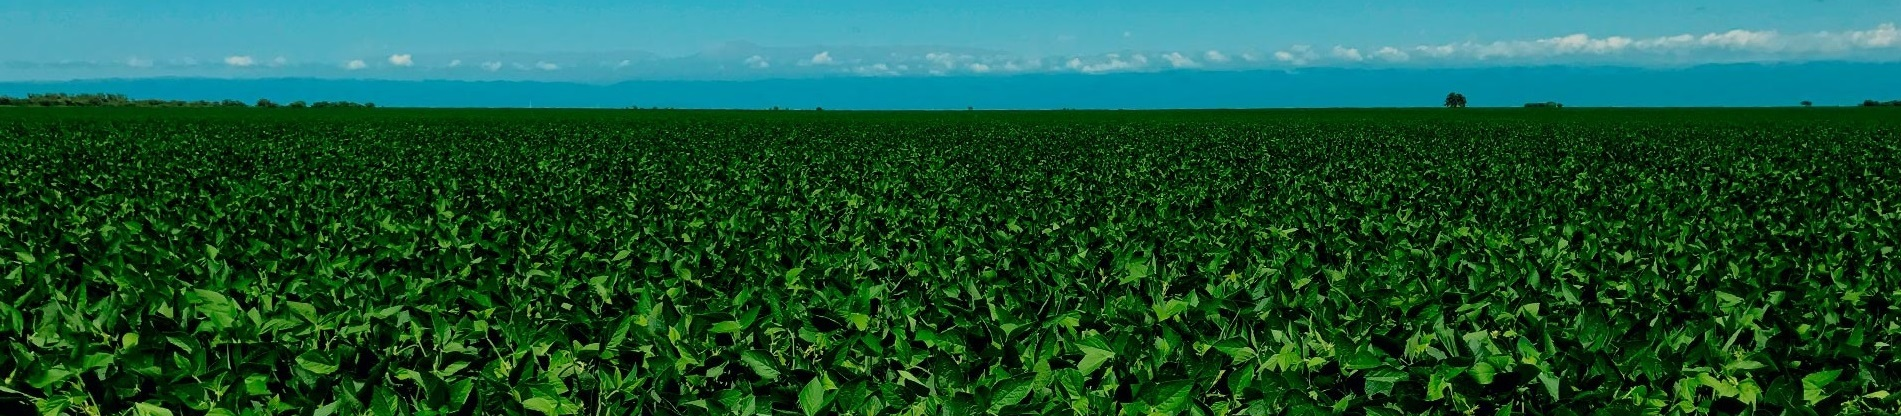
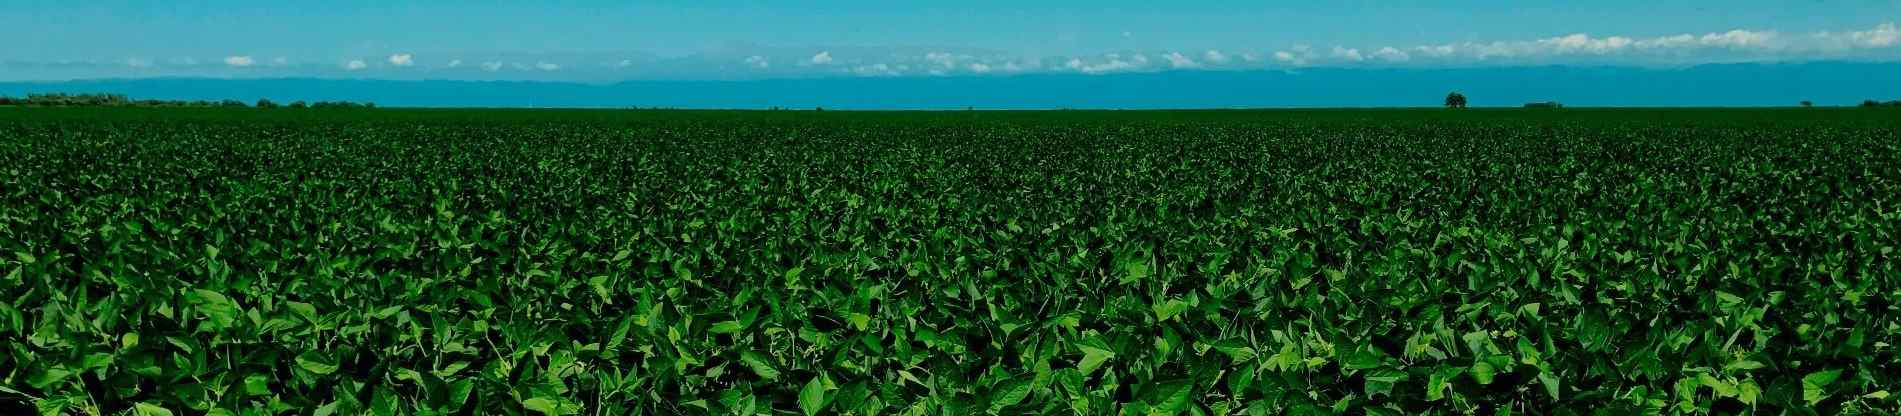
cambie todas la img a jpg

diff --git a/pages/establecimientos.html b/pages/establecimientos.html
@@ -63,17 +63,17 @@
                             </div>                                                        
                         </div>
                         <button class="carousel-control-prev" type="button" data-bs-target="#carouselExampleControls" data-bs-slide="prev">
-                        <span class="carousel-control-prev-icon" aria-hidden="true"></span>
-                        <span class="visually-hidden">Previous</span>
-                        </button>
-                        <button class="carousel-control-next" type="button" data-bs-target="#carouselExampleControls" data-bs-slide="next">
-                        <span class="carousel-control-next-icon" aria-hidden="true"></span>
-                        <span class="visually-hidden">Next</span>
-                        </button>
+                            <span class="carousel-control-prev-icon" aria-hidden="true"></span>
+                            <span class="visually-hidden">Previous</span>
+                            </button>
+                            <button class="carousel-control-next" type="button" data-bs-target="#carouselExampleControls" data-bs-slide="next">
+                            <span class="carousel-control-next-icon" aria-hidden="true"></span>
+                            <span class="visually-hidden">Next</span>
+                            </button>
                     </div>
                 </div>
                 <hr>            
-                <section class="container-fluid text-center justify-content-center">
+                <section class="container-fluid text-center">
                     <div class="row">
                         <div class="col-sm-12 col-ms-6 col-lg-4 m-auto">
                             <h1>Finca y empaque Los Cochamolles</h1>
@@ -85,7 +85,7 @@
                             <div id="carouselExampleControls" class="carousel slide" data-bs-ride="carousel">
                                 <div class="carousel-inner">
                                     <div class="carousel-item active">
-                                    <img src="../img/ebs3207-1.webp" class="d-block w-100" alt="finca cachamolles">
+                                    <img src="../img/ebs3207-1.jpg" class="d-block w-100" alt="finca cachamolles">
                                 </div>
                                 <div class="carousel-item">
                                     <img src="../img/empaque-1024x768.jpg" class="d-block w-100" alt="finca ">
@@ -95,6 +95,7 @@
                                 </div>                                                        
                             </div>
                             <button class="carousel-control-prev" type="button" data-bs-target="#carouselExampleControls" data-bs-slide="prev">
+                                
                                 <span class="carousel-control-prev-icon" aria-hidden="true"></span>
                                 <span class="visually-hidden">Previous</span>
                                 </button>

diff --git a/pages/nosotros.html b/pages/nosotros.html
@@ -38,7 +38,7 @@
     <main>
         <section class="nosotros">
             <div class="nos"><h1>NOSOTROS</h1></div>
-            <img src="../img/slider-2-finca-lules.png" class="img-fluid" alt="finca lules">
+            <img src="../img/slider-2-finca-lules.jpg" class="img-fluid" alt="finca lules">
         </section>
         <div class="historia">
             <div class="histori">
@@ -67,7 +67,7 @@
         </section>
         <hr>        
         <div class="oficina">
-            <img src="../img/nuestrogalpon.png" class="img-fluid" alt="oficinas">
+            <img src="../img/nuestrogalpon.jpg" class="img-fluid" alt="oficinas">
         </div>    
     </main>    
     <footer>

diff --git a/pages/contacto.html b/pages/contacto.html
@@ -39,7 +39,7 @@
         <section class="contac">
             <div class="contactanos">		
                 <div class="con"><h1>CONTACTO</h1></div>
-                <img src="../img/slider-1-finca-lules.png" class="img-fluid" alt="finca de frutillas">
+                <img src="../img/slider-1-finca-lules.jpg" class="img-fluid" alt="finca de frutillas">
             </div>
         </section>
         <section class="formulario">
